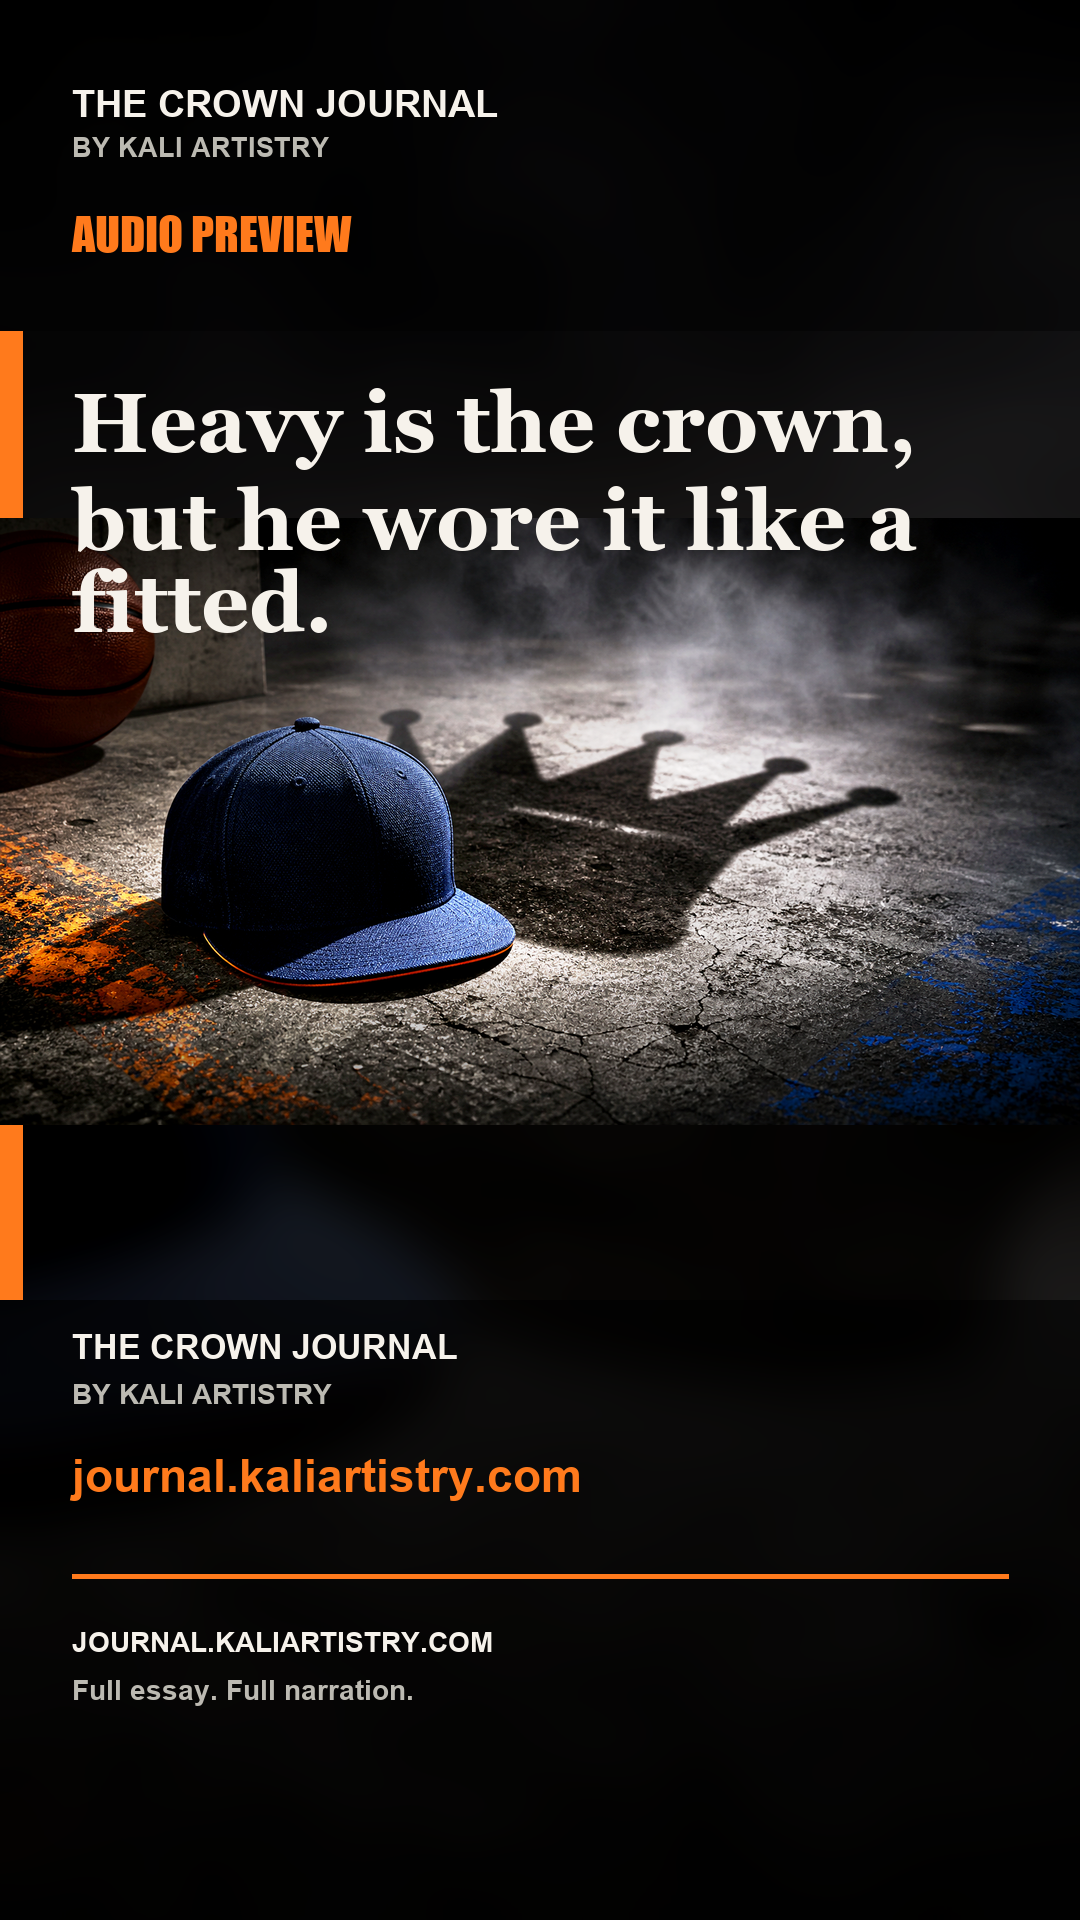
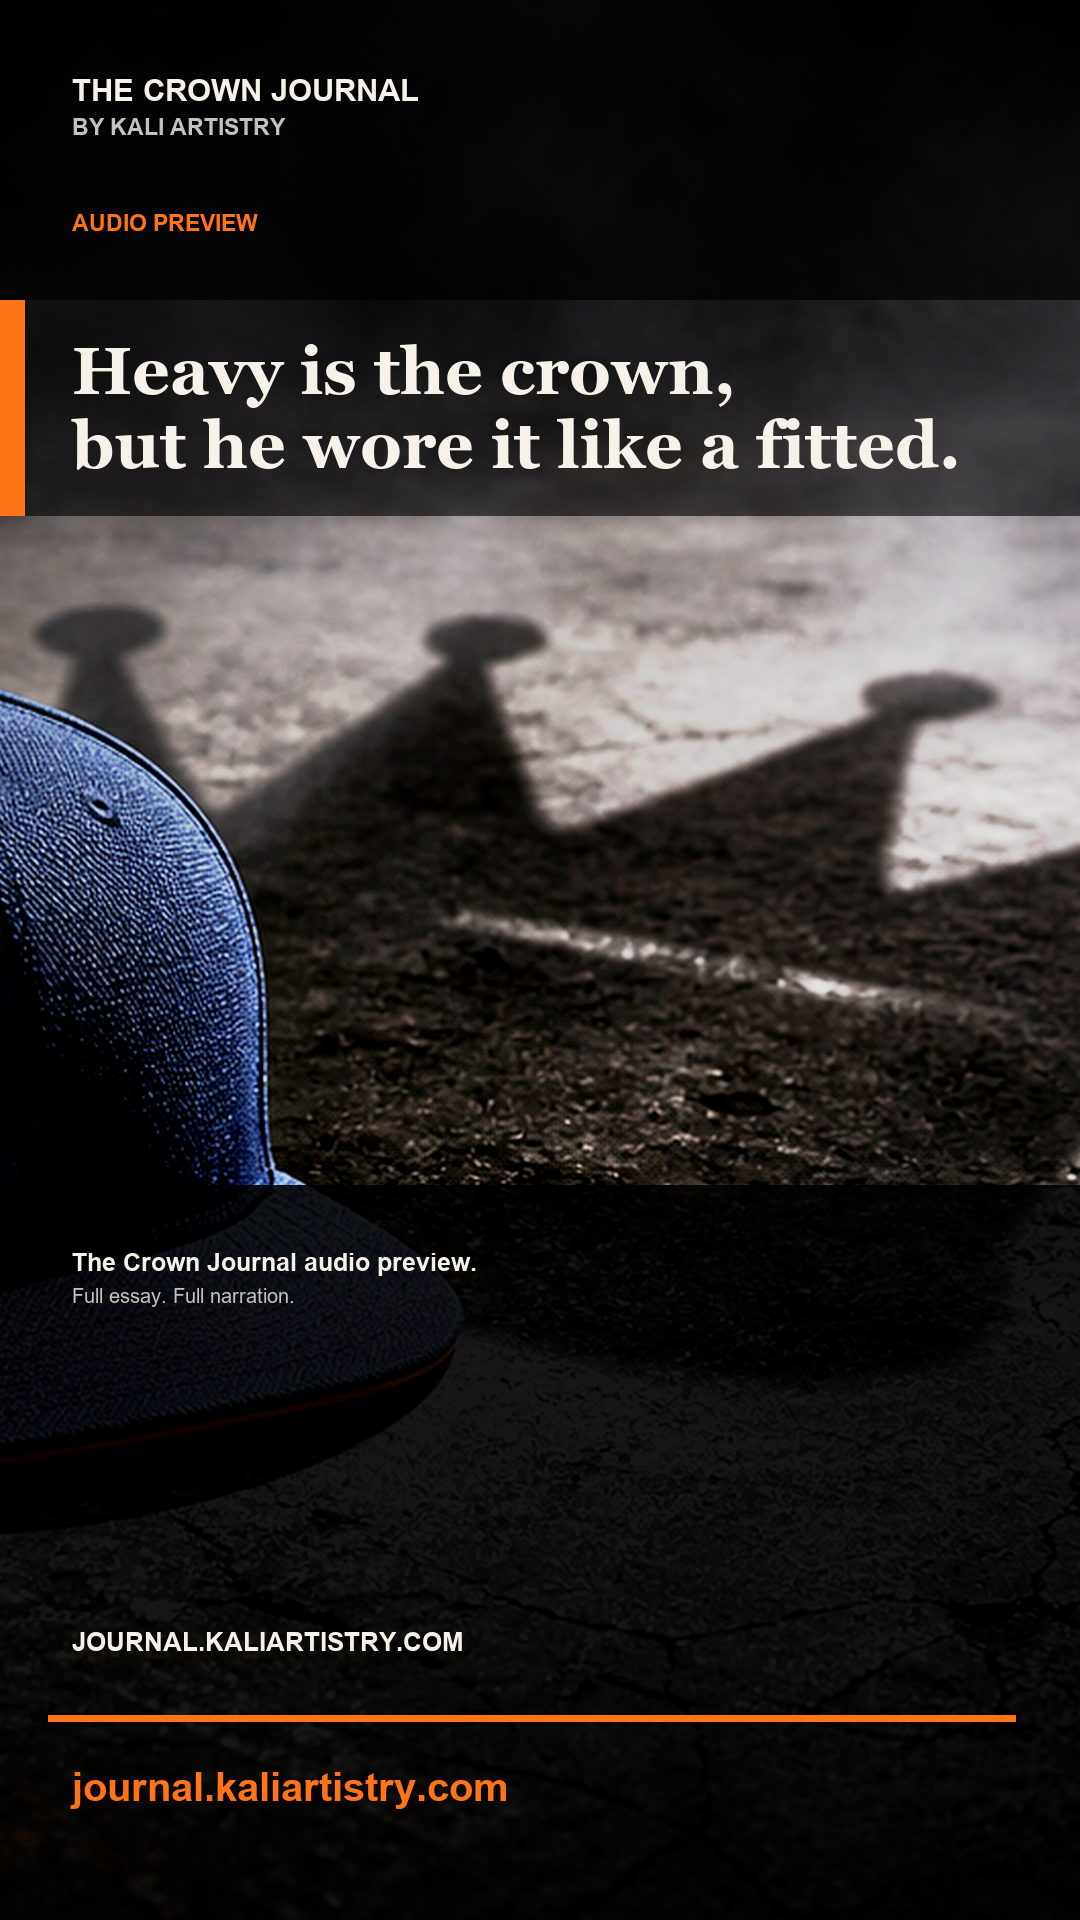
Correct Crown Journal Reel 1 audio and visuals

diff --git a/distribution/social-assets/crown-journal-reel-01-brunson-smoke/README.md b/distribution/social-assets/crown-journal-reel-01-brunson-smoke/README.md
@@ -8,12 +8,11 @@ https://journal.kaliartistry.com/heavy-is-the-crown-brunson-wanted-the-smoke/
 
 - `crown-journal-reel-01-brunson-smoke.mp4` - final vertical Reel export, 1080x1920, 30fps.
 - `cover-frame.png` - still cover frame.
-- `reel-01-audio-final.m4a` - final combined intro swell and narration audio.
-- `voiceover-edge-tts.mp3` - narration-only voiceover.
-- `intro-swell-generated.m4a` - generated cinematic low-to-high intro swell.
-- `voiceover-script.txt` - approved voiceover script.
+- `article-narration-snippets-clean.m4a` - final narration audio sourced from the article narration snippets, with the old lead-in effect removed.
 - `caption.txt` - Instagram caption draft.
 - `timings.json` - on-screen card timing map.
+- `review-contact-sheet-clean.jpg` - visual review sheet from the corrected export.
+- `visual-qc-clean.json` - render notes and static text-band verification.
 - `source-license-note.md` - source and usage notes.
 - `future-reel-2-note.md` - hold note for a later second Reel.
 
@@ -21,6 +20,6 @@ https://journal.kaliartistry.com/heavy-is-the-crown-brunson-wanted-the-smoke/
 
 This is Reel 1. It focuses on the "stars wanted New York's lights but not New York's smoke" argument.
 
-The visual is intentionally static aside from the waveform bars, so the motion supports the narration without distracting from it.
+The visual is intentionally static aside from the waveform bars, so the motion supports the narration without distracting from it. The corrected export uses locked text layers, no image panning, and no intro sound effect.
 
 Do not post before review.

diff --git a/distribution/social-assets/crown-journal-reel-01-brunson-smoke/source-license-note.md b/distribution/social-assets/crown-journal-reel-01-brunson-smoke/source-license-note.md
@@ -1,8 +1,8 @@
 # Source And License Note
 
 - Visual: original Crown Journal/Kali Artistry generated crown/fitted/concrete visual from existing project assets.
-- Voiceover: generated with Microsoft Edge neural TTS via `edge-tts`, using `en-US-ChristopherNeural`, rate `-4%`, and pitch `-2Hz`, from `voiceover-script.txt`.
-- Intro swell: generated locally from synthesized tones/noise; no copyrighted music or third-party samples used.
+- Voiceover: sourced from the existing article narration snippet package and exported as `article-narration-snippets-clean.m4a`.
+- Intro effect: removed from the corrected export.
 - Video motion: static visual foundation with animated waveform bars only; no panning image motion.
 - No official Knicks/NBA logos, player likeness, game footage, X/Twitter, Threads, or private collaborator references are used.
-- For paid ads or boosted usage, confirm Microsoft Edge TTS commercial usage terms before promotion.
+- For paid ads or boosted usage, confirm the usage terms for the original article narration source before promotion.